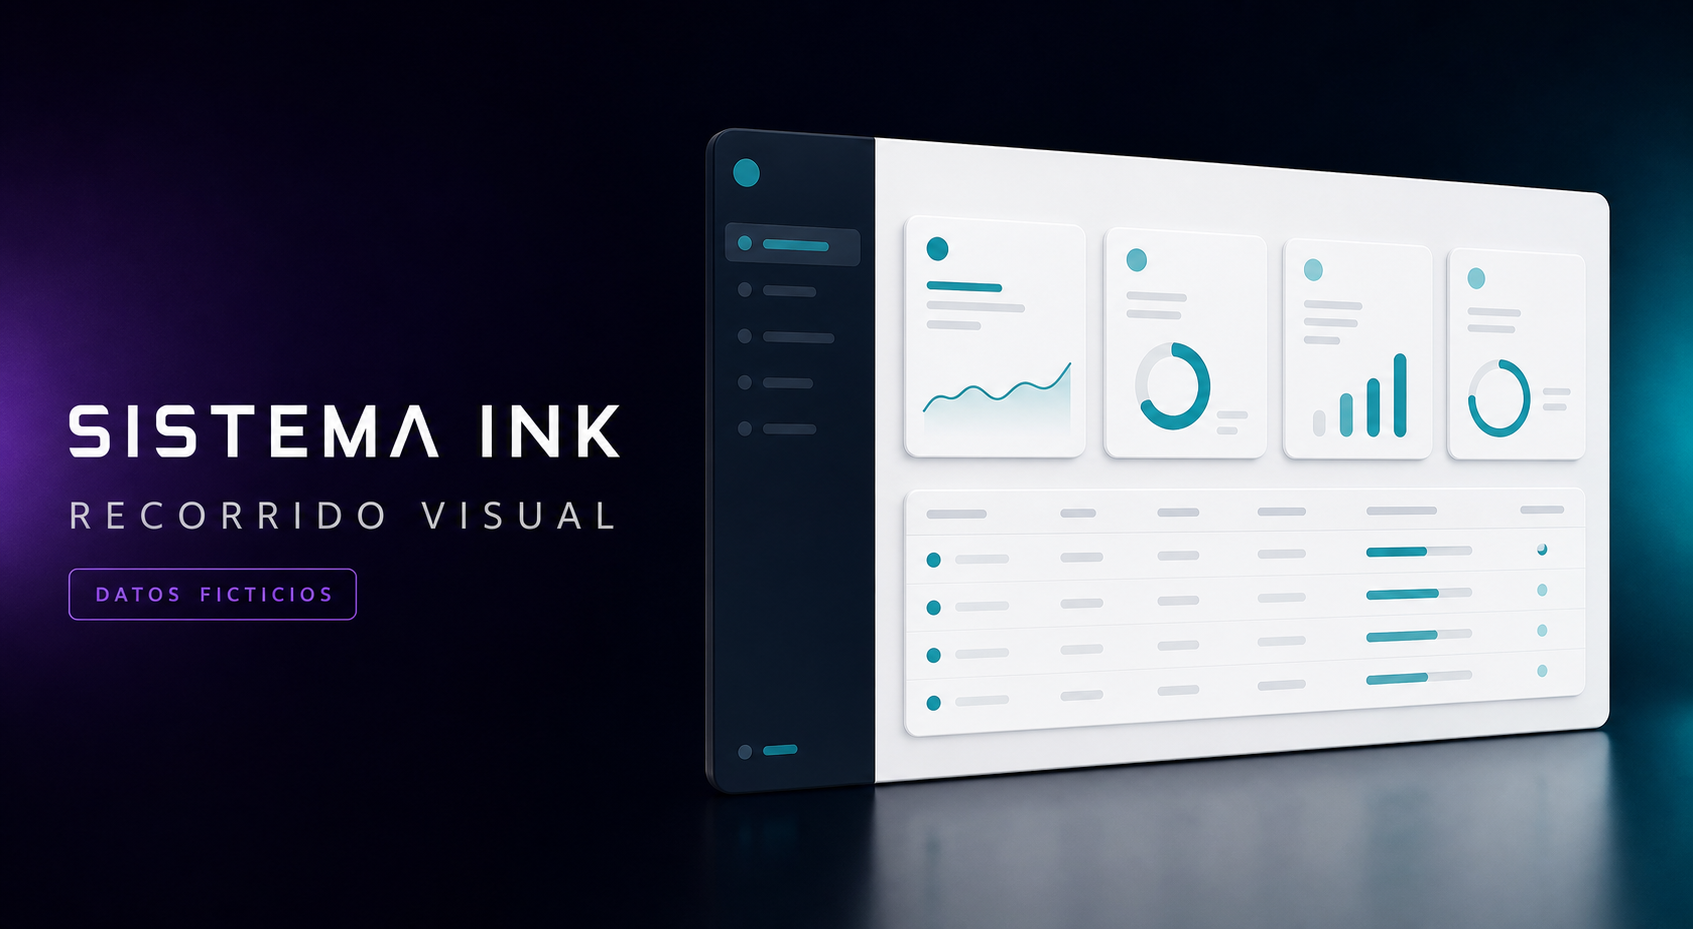
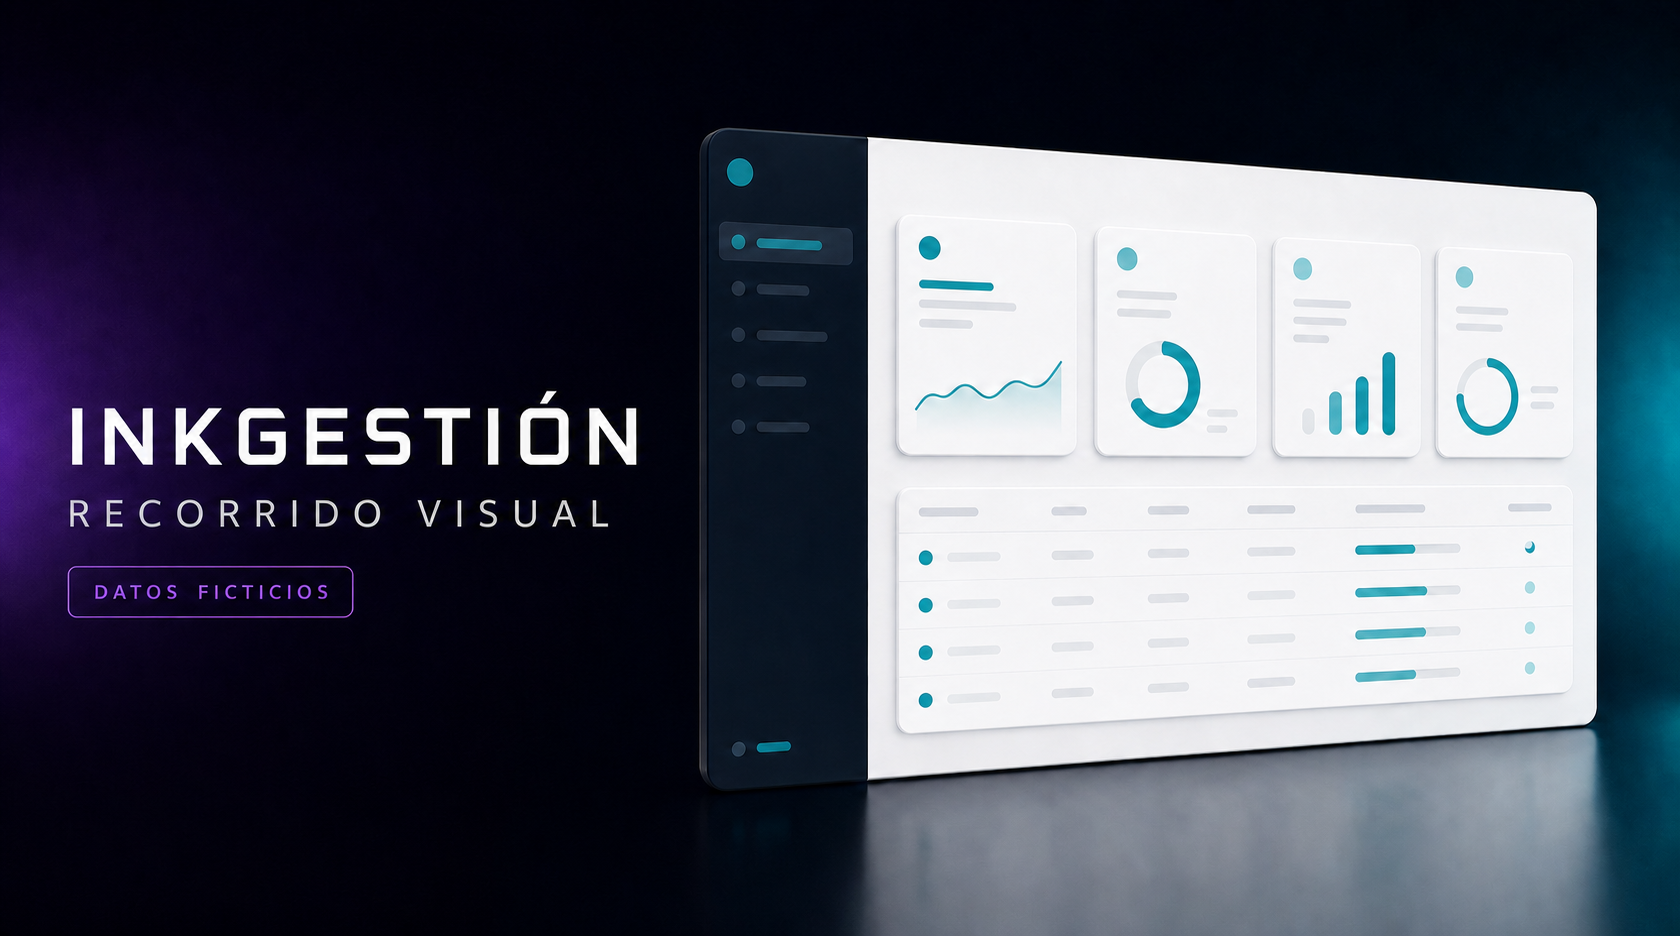
Renombrar showcase a InkGestion

diff --git a/src/DemoWorkspace.tsx b/src/DemoWorkspace.tsx
@@ -428,7 +428,7 @@ export default function DemoWorkspace() {
         <div className="read-only-pill"><span aria-hidden="true">●</span> Solo lectura · Datos ficticios</div>
       </div>
 
-      <div ref={workspaceRef} className="workspace real-workspace" tabIndex={-1} aria-label="Demostración visual de Sistema Ink">
+      <div ref={workspaceRef} className="workspace real-workspace" tabIndex={-1} aria-label="Demostración visual de InkGestión">
         <header className="app-titlebar real-titlebar">
           <span aria-hidden="true" />
           <strong>Atelier Demo</strong>
@@ -437,10 +437,10 @@ export default function DemoWorkspace() {
         </header>
 
         <aside className="app-sidebar real-sidebar">
-          <div className="company-identity"><div className="business-logo"><img src="./sistema-ink-icon.png" alt="Sistema Ink" /></div><strong>Atelier Demo</strong><small>Operación local</small></div>
+          <div className="company-identity"><div className="business-logo"><img src="./sistema-ink-icon.png" alt="InkGestión" /></div><strong>Atelier Demo</strong><small>Operación local</small></div>
           <div className="sidebar-scroll">
             <p className="nav-label">OPERACIÓN</p>
-            <nav aria-label="Menú visual de Sistema Ink" data-guide-target="shell-navigation">
+            <nav aria-label="Menú visual de InkGestión" data-guide-target="shell-navigation">
               {primaryModules.map((module) => renderNavButton(module))}
               <div className="more-navigation">
                 <button className="more-toggle" type="button" onClick={() => setMoreOpen((open) => !open)} aria-expanded={moreOpen} data-guide-target="more-options"><span aria-hidden="true">{moreOpen ? "▾" : "▸"}</span>MÁS OPCIONES</button>
@@ -454,7 +454,7 @@ export default function DemoWorkspace() {
         <p className="sr-only" role="status" aria-live="polite" aria-atomic="true">Módulo visible: {moduleCopy[active].title}.</p>
         <section ref={contentRef} className={`app-content real-app-content${active === "administracion" || active === "catalogo" ? " internal-module-content" : ""}`} data-guide-target="module-surface" data-active-submenu={active === "administracion" ? administrationView : active === "catalogo" ? catalogView : undefined}><ModuleContent active={active} administrationView={administrationView} catalogView={catalogView} onAdministrationViewChange={showAdministrationView} onCatalogViewChange={showCatalogView} /></section>
 
-        <footer className="app-statusbar real-statusbar" data-guide-target="status-bar"><span><i /> Modo demostración · datos ficticios</span><strong>Sistema Ink · Recorrido visual aislado</strong></footer>
+        <footer className="app-statusbar real-statusbar" data-guide-target="status-bar"><span><i /> Modo demostración · datos ficticios</span><strong>InkGestión · Recorrido visual aislado</strong></footer>
         <InteractiveGuide active={active} open={guideOpen} onClose={closeGuide} workspaceRef={workspaceRef} />
       </div>
       <p className="demo-hint"><span aria-hidden="true">↖</span> El menú conserva la jerarquía visual del producto. Solo la navegación local está habilitada.</p>

diff --git a/src/BenefitsSection.tsx b/src/BenefitsSection.tsx
@@ -26,12 +26,12 @@ export default function BenefitsSection() {
   return (
     <section className="benefits-section" aria-labelledby="benefits-title" aria-describedby="benefits-description">
       <header className="benefits-header">
-        <p className="benefits-eyebrow">POR QUÉ SISTEMA INK</p>
+        <p className="benefits-eyebrow">POR QUÉ INKGESTIÓN</p>
         <h2 className="benefits-title" id="benefits-title">Una herramienta pensada alrededor del trabajo real.</h2>
         <p className="benefits-description" id="benefits-description">La interfaz reúne operación, seguimiento e impresión sin exigir que cada área trabaje aislada.</p>
       </header>
 
-      <div className="benefits-list" aria-label="Principales ventajas de Sistema Ink">
+      <div className="benefits-list" aria-label="Principales ventajas de InkGestión">
         {benefits.map((benefit) => (
           <article className="benefits-row" key={benefit.title}>
             <h3>{benefit.title}</h3>

diff --git a/src/App.tsx b/src/App.tsx
@@ -16,8 +16,8 @@ export default function App() {
             <span> en una sola vista.</span>
           </h1>
           <p className="hero-lead">
-            Un recorrido visual por Sistema Ink, una solución de gestión para talleres de
-            personalización y producción ligera. Explora la interfaz con información
+            Un recorrido visual por InkGestión, una solución creada para ordenar la
+            operación de Ink Multiservicios. Explora la interfaz con información
             totalmente ficticia y sin conectarte al producto real.
           </p>
         </div>
@@ -52,7 +52,7 @@ export default function App() {
 
       <footer className="site-footer">
         <div>
-          <strong>Sistema Ink · Recorrido visual</strong>
+          <strong>InkGestión · Recorrido visual</strong>
           <p>Proyecto comercial de Eliezer Ponce.</p>
         </div>
         <div className="footer-links">

diff --git a/index.html b/index.html
@@ -3,10 +3,10 @@
   <head>
     <meta charset="UTF-8" />
     <meta name="viewport" content="width=device-width, initial-scale=1.0" />
-    <meta name="description" content="Demo visual pública de Sistema Ink con datos ficticios y sin conexión al producto comercial." />
+    <meta name="description" content="Demo visual pública de InkGestión, solución creada para Ink Multiservicios, con datos ficticios y sin conexión al producto real." />
     <meta http-equiv="Content-Security-Policy" content="default-src 'self'; connect-src 'none'; img-src 'self' data:; font-src 'self'; style-src 'self' 'unsafe-inline'; script-src 'self'; object-src 'none'; base-uri 'none'; form-action 'none'; frame-ancestors 'none'" />
     <meta name="referrer" content="no-referrer" />
-    <title>Sistema Ink | Recorrido visual</title>
+    <title>InkGestión | Recorrido visual</title>
   </head>
   <body>
     <div id="root"></div>

diff --git a/src/AuxiliaryViews.tsx b/src/AuxiliaryViews.tsx
@@ -224,7 +224,7 @@ function ReceiptPreview() {
             <hr />
             <p>Gracias por su compra</p>
             <small>No válido como comprobante fiscal</small>
-            <small>Sistema Ink · Datos ficticios</small>
+            <small>InkGestión · Datos ficticios</small>
           </div>
         </div>
       </div>
@@ -260,7 +260,7 @@ function ConnectionPreview() {
         </section>
       </div>
       <footer className="aux-connection-status">
-        <span><i aria-hidden="true" /> Conexión pausada</span><strong>Sistema Ink · Entorno de demostración</strong>
+        <span><i aria-hidden="true" /> Conexión pausada</span><strong>InkGestión · Entorno de demostración</strong>
       </footer>
     </article>
   );

diff --git a/src/globals.css b/src/globals.css
@@ -2250,7 +2250,7 @@ button:disabled {
   }
 }
 
-/* Visual parity with the current Sistema Ink desktop shell. */
+/* Visual parity with the current InkGestión desktop shell. */
 .demo-section {
   overflow-x: auto;
   width: calc(100% - 24px);

diff --git a/COPYRIGHT.md b/COPYRIGHT.md
@@ -2,10 +2,10 @@
 
 Copyright © 2026 Eliezer Ponce. Todos los derechos reservados.
 
-Este repositorio se hace visible públicamente exclusivamente para presentar el showcase visual de Sistema Ink. No es software de código abierto.
+Este repositorio se hace visible públicamente exclusivamente para presentar el showcase visual de InkGestión. No es software de código abierto.
 
 No se concede permiso para copiar, modificar, distribuir, sublicenciar, vender o utilizar este código, diseño visual, identidad gráfica o activos para crear productos derivados o competidores, salvo lo exigido por la legislación aplicable o por los términos obligatorios de la plataforma que aloja el repositorio.
 
-El repositorio no licencia ni contiene la lógica comercial, reglas de dominio, infraestructura, base de datos ni código del producto comercial Sistema Ink.
+El repositorio no licencia ni contiene la lógica comercial, reglas de dominio, infraestructura, base de datos ni código del producto comercial InkGestión.
 
 Las bibliotecas y activos de terceros conservan sus respectivas licencias y derechos. Para solicitar una licencia o demostración privada, escribe a [eliezerponcexd@gmail.com](mailto:eliezerponcexd@gmail.com).

diff --git a/README.md b/README.md
@@ -1,8 +1,8 @@
-# Sistema Ink — Showcase visual
+# InkGestión — Showcase visual
 
-![Portada del recorrido visual de Sistema Ink](public/og.png)
+![Portada del recorrido visual de InkGestión](public/og.png)
 
-Recorrido público y deliberadamente limitado de **Sistema Ink**, una aplicación de gestión para talleres de personalización y producción ligera.
+Recorrido público y deliberadamente limitado de **InkGestión**, una solución de gestión creada para Ink Multiservicios.
 
 Este repositorio muestra una recreación visual independiente con datos sintéticos. **No contiene el código del producto comercial**, sus reglas de negocio, API, contratos, base de datos, autenticación, instaladores ni documentación técnica interna.
 
